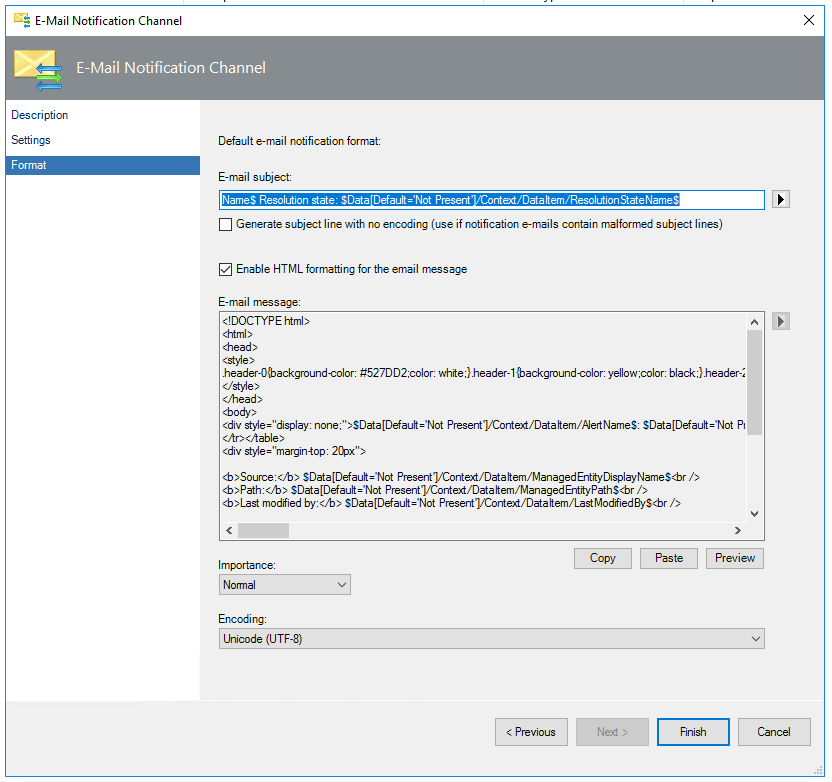
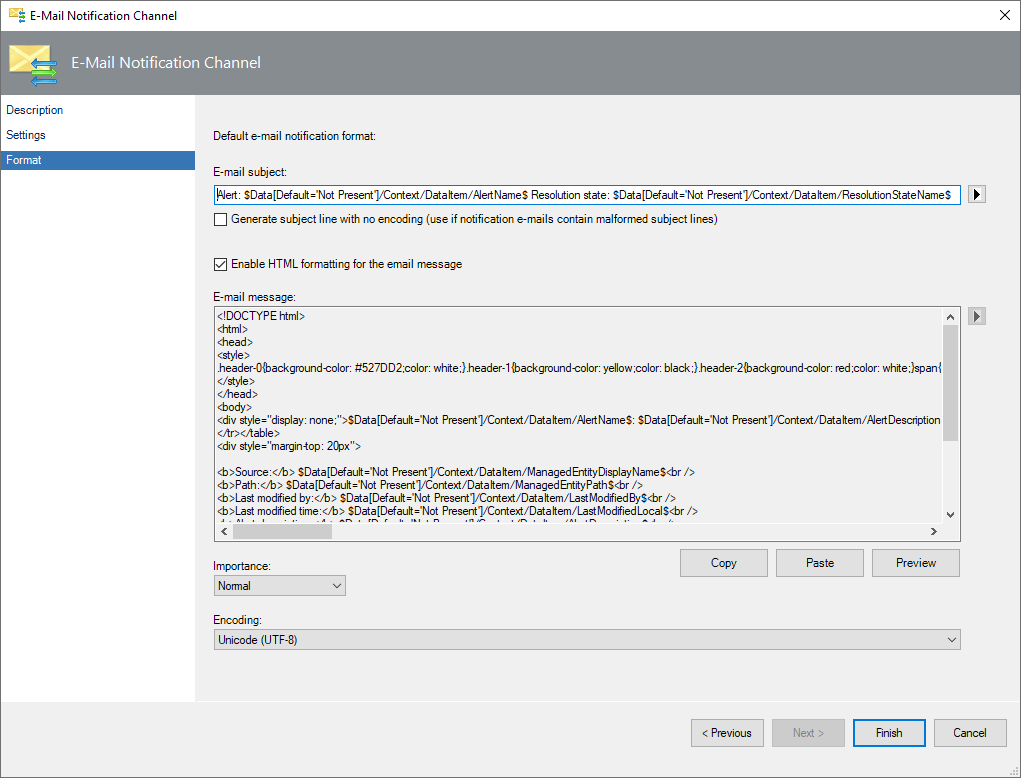
updates

Changed region(s): [[0.0, 0.0, 1.0, 0.8329], [0.0, 0.8946, 1.0, 1.0]]

diff --git a/SystemCenterDocs/scom/manage-notifications-create-email-channel.md b/SystemCenterDocs/scom/manage-notifications-create-email-channel.md
@@ -74,9 +74,6 @@ Operations Manager 2019 introduces the ability to create and send email notifica
 
 With this feature, an administrator would be able to configure an email in HTML format for sending notifications to subscribers. The administrators can use the existing default HTML email template, edit it, or create a new HTML message. With HTML email format, subscribers  get easy access to relevant information about the alert, alert source and the rule/monitor that generated the alert. They can view these details through the drill-down links available at the end of the email.
 
->[!NOTE]
-> If you have only one SMTP server and it's unavailable, the retry interval has no effect. The retry interval is used when you have a secondary server and sending an email to the primary server fails.  Operations Manager then  switches to the secondary server and checks the retry interval time. If the Retry interval time has passed, Operations Manager tries to use the secondary server.
-
 To create an email in HTML format, perform the following steps:
 
 1.	Use the procedure in the above section for creating email notification channel.
@@ -94,7 +91,7 @@ To create an email in HTML format, perform the following steps:
 
    The following table highlights the variables to use for various properties of the alert or links to the HTML content.
 
-   |Alert property of the link |Variable |  
+   | Alert property of the link | Variable |  
    |-------------|---|-------------|  
    |Alert Source  |$Data[Default='Not Present']/Context/DataItem/ManagedEntityPath$\$Data[Default='Not Present']/Context/DataItem/ManagedEntityDisplayName$ |
    | Alert Name  |$Data[Default='Not Present']/Context/DataItem/AlertName$ |

diff --git a/SystemCenterDocs/scom/manage-mp-mpassessment.md b/SystemCenterDocs/scom/manage-mp-mpassessment.md
@@ -246,8 +246,10 @@ The following workloads are supported for the operating systems listed below.
 
 ## Support for latest application servers
 - Apache Tomcat 7, 8, and 9
-- Red Hat JBoss 4, 5, and 6.
-- Red Hat JBoss EAP 6, JBoss Application Server 7, Wildfly Application Server 8/9/10/11/12/13/14  
+- Red Hat JBoss 4, 5, 6 and 7
+- Red Hat JBoss EAP 6, 7
+- JBoss Application Server 7
+- Wildfly Application Server 8/9/10/11/12/13/14  
 - IBM WebSphere 7.0, 8.0, 8.5, and 9.0
 - Oracle WebLogic 10gR3, 11, 12cR1JBoss, and 12cR2JBoss
 
